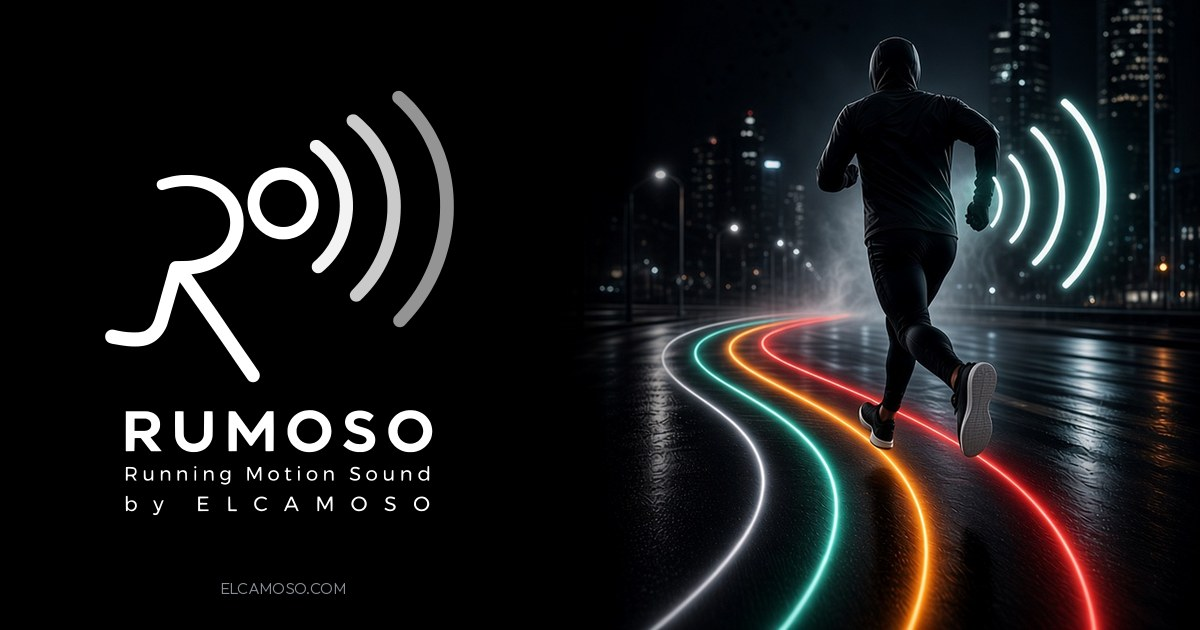
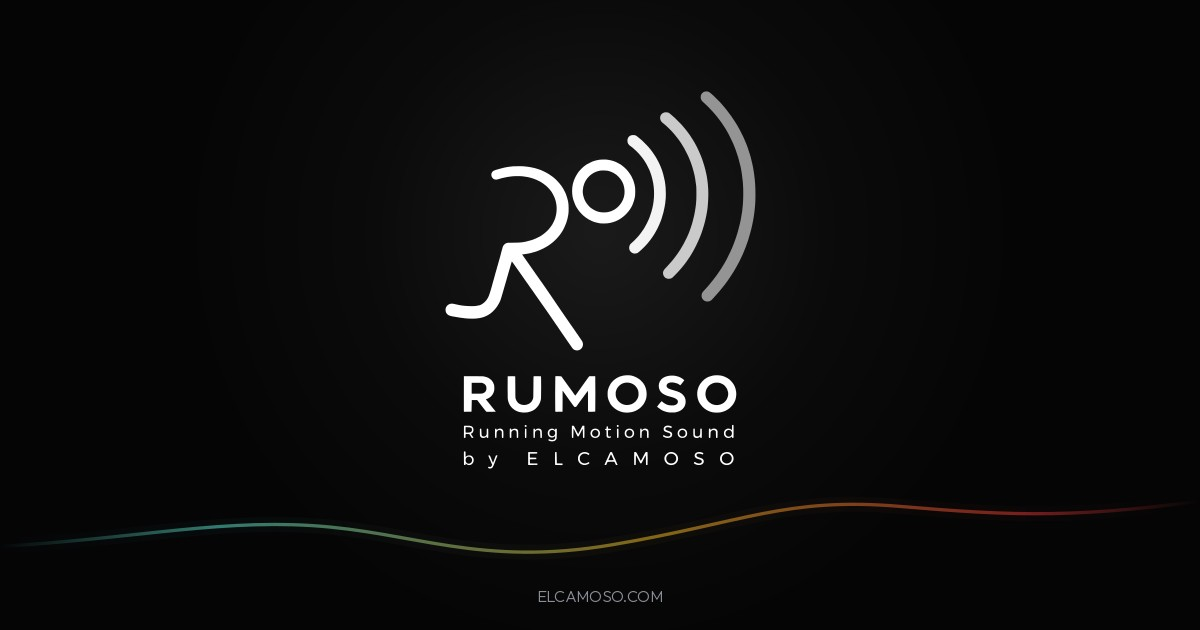
Simplify the RUMOSO ready screen and hero/OG art.
Ready state is now a near-black stage with one soft glow and a single faint
effort-coloured route line behind George's lockup; the runner photo and the
labelled map no longer compete with the logo's arcs. OG image rebuilt on the
same clean stage. Unused hero webp removed.

diff --git a/src/components/rumoso/ReadyBackdrop.tsx b/src/components/rumoso/ReadyBackdrop.tsx
@@ -1,0 +1,54 @@
+import { RumosoTaglineLockup } from "./RumosoIcon";
+
+/**
+ * Pre-run stage behind the RUMOSO lockup: near-black, one soft glow and a single
+ * faint effort-coloured route line. It fully covers the map (labels included) so the
+ * logo's arcs are the only arcs on screen. The map keeps loading underneath and
+ * appears as soon as the run starts.
+ */
+export function ReadyBackdrop() {
+  return (
+    <div
+      className="pointer-events-none absolute inset-0 z-[1] overflow-hidden bg-[#050506]"
+      data-testid="rumoso-ready-backdrop"
+      aria-hidden
+    >
+      <div className="absolute inset-0 bg-[radial-gradient(closest-side_at_50%_46%,rgba(255,255,255,0.075),rgba(255,255,255,0.02)_55%,transparent)]" />
+      <svg
+        className="absolute inset-0 size-full"
+        viewBox="0 0 400 400"
+        preserveAspectRatio="xMidYMid slice"
+        fill="none"
+      >
+        <defs>
+          <linearGradient id="rumoso-ready-route" x1="0" y1="0" x2="1" y2="0">
+            <stop offset="0" stopColor="#5eead4" stopOpacity="0" />
+            <stop offset="0.18" stopColor="#5eead4" />
+            <stop offset="0.55" stopColor="#fbbf24" />
+            <stop offset="0.85" stopColor="#e53935" />
+            <stop offset="1" stopColor="#e53935" stopOpacity="0" />
+          </linearGradient>
+          <filter id="rumoso-ready-soft" x="-10%" y="-50%" width="120%" height="200%">
+            <feGaussianBlur stdDeviation="4" />
+          </filter>
+        </defs>
+        <g stroke="url(#rumoso-ready-route)" strokeLinecap="round" strokeLinejoin="round">
+          <path
+            d="M-10 318 C 40 314, 70 300, 104 304 S 160 330, 204 316 S 262 286, 300 292 S 360 300, 410 286"
+            strokeWidth="9"
+            opacity="0.16"
+            filter="url(#rumoso-ready-soft)"
+          />
+          <path
+            d="M-10 318 C 40 314, 70 300, 104 304 S 160 330, 204 316 S 262 286, 300 292 S 360 300, 410 286"
+            strokeWidth="2"
+            opacity="0.5"
+          />
+        </g>
+      </svg>
+      <div className="absolute inset-0 flex items-center justify-center pb-6">
+        <RumosoTaglineLockup className="h-[min(11rem,30vh)] w-auto" />
+      </div>
+    </div>
+  );
+}

diff --git a/src/components/rumoso/RumosoApp.tsx b/src/components/rumoso/RumosoApp.tsx
@@ -44,13 +44,8 @@ import { EffortGauge } from "./EffortGauge";
 import { EffortBar, EffortLegend } from "./EffortLegend";
 import { RumosoMap } from "./RumosoMap";
 import { RunSummary } from "./RunSummary";
-import {
-  RUMOSO_ASSET,
-  RumosoIcon,
-  RumosoLockup,
-  RumosoTaglineLockup,
-  type RumosoUiIconName,
-} from "./RumosoIcon";
+import { ReadyBackdrop } from "./ReadyBackdrop";
+import { RumosoIcon, RumosoLockup, type RumosoUiIconName } from "./RumosoIcon";
 
 export type RumosoDemoView = "ready" | "running" | "summary" | "diagnostics";
 
@@ -579,23 +574,7 @@ export function RumosoApp({
               fitRoute={points.length >= 8}
               className="size-full"
             />
-            {phase === "ready" ? (
-              <div className="pointer-events-none absolute inset-0 z-[1] overflow-hidden" aria-hidden>
-                <img
-                  src={RUMOSO_ASSET.heroMobile}
-                  alt=""
-                  width={900}
-                  height={1636}
-                  loading="lazy"
-                  decoding="async"
-                  className="size-full object-cover object-[center_58%] opacity-40"
-                />
-                <div className="absolute inset-0 bg-gradient-to-b from-black/45 via-black/25 to-black/70" />
-                <div className="absolute inset-0 flex items-center justify-center pt-4">
-                  <RumosoTaglineLockup className="h-[min(11rem,30vh)] w-auto opacity-95 drop-shadow-[0_2px_12px_rgba(0,0,0,0.7)]" />
-                </div>
-              </div>
-            ) : null}
+            {phase === "ready" ? <ReadyBackdrop /> : null}
             <div className="pointer-events-none absolute inset-x-0 top-0 z-10 flex items-start justify-between p-3">
               <div className="pointer-events-none rounded-2xl border border-white/10 bg-black/55 px-3 py-2 backdrop-blur-md">
                 <p className="font-mono text-3xl font-light tabular-nums leading-none">

diff --git a/src/components/rumoso/RumosoIcon.tsx b/src/components/rumoso/RumosoIcon.tsx
@@ -6,7 +6,6 @@ export const RUMOSO_ASSET = {
   /** George's stacked lockup with "Running Motion Sound" and "by ELCAMOSO". */
   lockupTagline: "/rumoso/logo/rumoso-lockup-tagline-white.svg",
   mark: "/rumoso/logo/rumoso-mark-white.svg",
-  heroMobile: "/rumoso/hero/rumoso-hero-mobile.webp",
   og: "/rumoso/hero/rumoso-og-1200x630.jpg",
 } as const;
 
